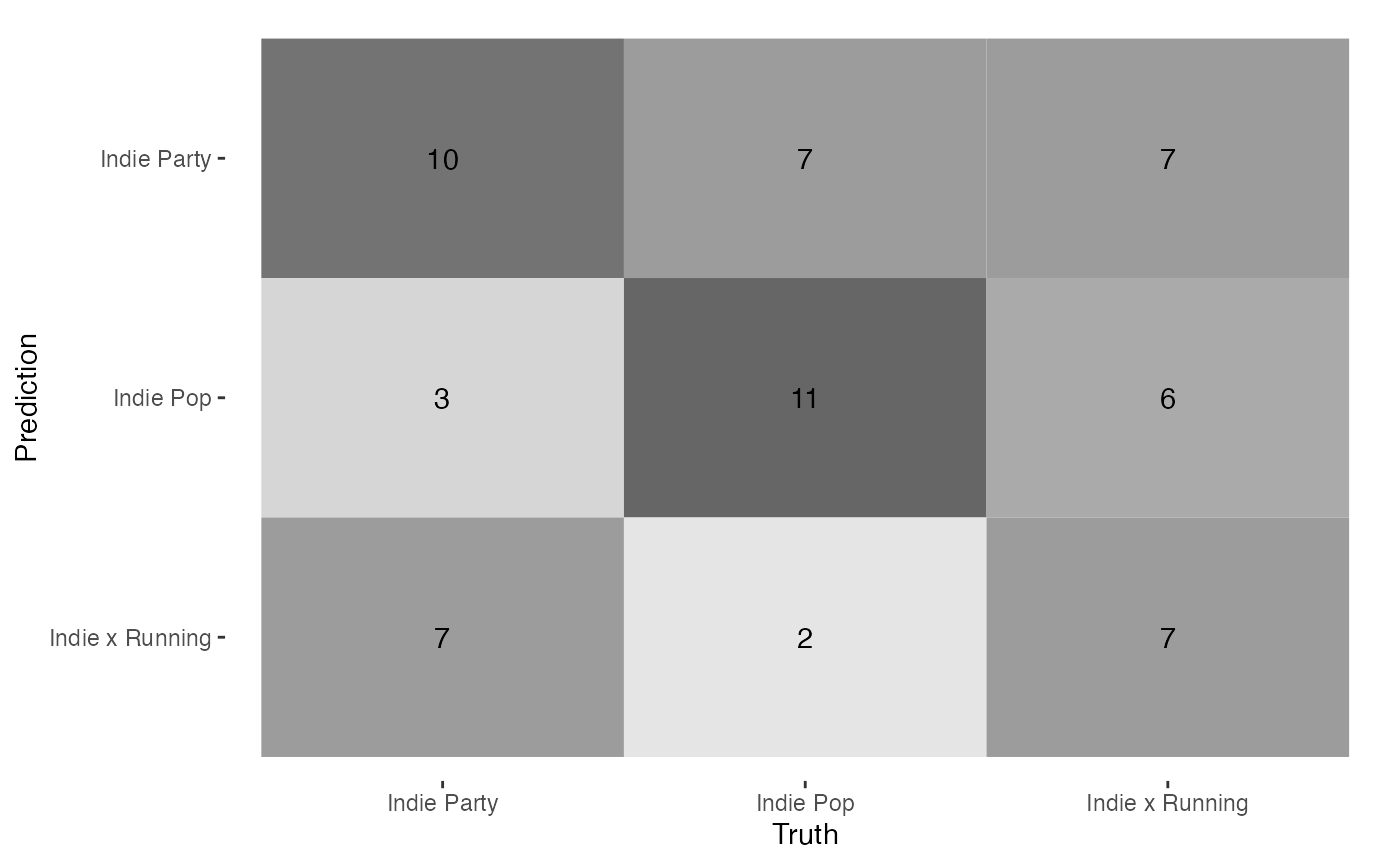
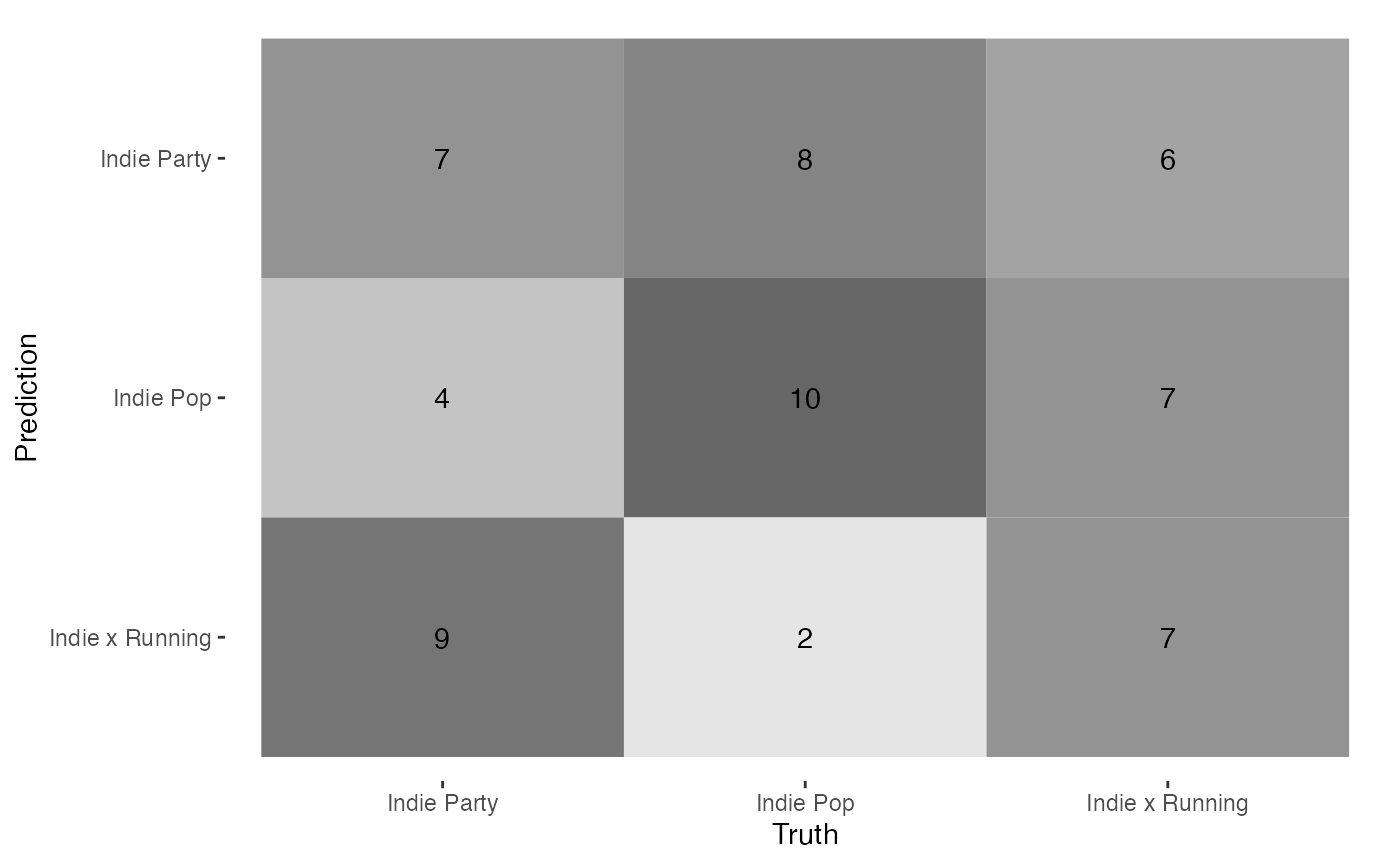
Updated dependencies and version number

diff --git a/docs/articles/compmus-w12.html b/docs/articles/compmus-w12.html
@@ -33,7 +33,7 @@
       </button>
       <span class="navbar-brand">
         <a class="navbar-link" href="../index.html">compmus</a>
-        <span class="version label label-default" data-toggle="tooltip" data-placement="bottom" title="">0.0.0.9008</span>
+        <span class="version label label-default" data-toggle="tooltip" data-placement="bottom" title="">0.0.0.9009</span>
       </span>
     </div>
 
@@ -126,7 +126,7 @@ further possibilities, look at the <code>cluster</code> package.</p>
 <span><span class="co">## <span style="color: #BB0000;">✖</span> <span style="color: #0000BB;">dplyr</span>::<span style="color: #00BB00;">lag()</span>      masks <span style="color: #0000BB;">stats</span>::lag()</span></span>
 <span><span class="co">## <span style="color: #BB0000;">✖</span> <span style="color: #0000BB;">yardstick</span>::<span style="color: #00BB00;">spec()</span> masks <span style="color: #0000BB;">readr</span>::spec()</span></span>
 <span><span class="co">## <span style="color: #BB0000;">✖</span> <span style="color: #0000BB;">recipes</span>::<span style="color: #00BB00;">step()</span>   masks <span style="color: #0000BB;">stats</span>::step()</span></span>
-<span><span class="co">## <span style="color: #0000BB;">•</span> Search for functions across packages at <span style="color: #00BB00;">https://www.tidymodels.org/find/</span></span></span></code></pre>
+<span><span class="co">## <span style="color: #0000BB;">•</span> Learn how to get started at <span style="color: #00BB00;">https://www.tidymodels.org/start/</span></span></span></code></pre>
 <div class="sourceCode" id="cb5"><pre class="downlit sourceCode r">
 <code class="sourceCode R"><span><span class="kw"><a href="https://rdrr.io/r/base/library.html" class="external-link">library</a></span><span class="op">(</span><span class="va">protoclust</span><span class="op">)</span></span>
 <span><span class="kw"><a href="https://rdrr.io/r/base/library.html" class="external-link">library</a></span><span class="op">(</span><span class="va"><a href="https://github.com/charlie86/spotifyr" class="external-link">spotifyr</a></span><span class="op">)</span></span></code></pre></div>
@@ -284,84 +284,84 @@ different results every time. Nonetheless, it can be a useful reality
 check on the stability of the clusters from hierarchical clustering.</p>
 <div class="sourceCode" id="cb13"><pre class="downlit sourceCode r">
 <code class="sourceCode R"><span><span class="fu"><a href="https://rdrr.io/r/stats/kmeans.html" class="external-link">kmeans</a></span><span class="op">(</span><span class="va">halloween_juice</span>, <span class="fl">4</span><span class="op">)</span></span></code></pre></div>
-<pre><code><span><span class="co">## K-means clustering with 4 clusters of sizes 2, 5, 6, 7</span></span>
+<pre><code><span><span class="co">## K-means clustering with 4 clusters of sizes 2, 6, 7, 5</span></span>
 <span><span class="co">## </span></span>
 <span><span class="co">## Cluster means:</span></span>
 <span><span class="co">##   danceability      energy   loudness speechiness acousticness instrumentalness</span></span>
 <span><span class="co">## 1   0.09605479  0.07213439  0.5262965 -0.48145689    0.1384264      1.105519968</span></span>
-<span><span class="co">## 2   0.64836983 -0.49710006  0.1245002  0.05224442    0.3870865     -0.367575835</span></span>
-<span><span class="co">## 3   0.83101946  1.15415030  0.6751792  0.92760310   -0.5974045     -0.059112255</span></span>
-<span><span class="co">## 4  -1.20286793 -0.65481004 -0.8180242 -0.69484670    0.1960202     -0.002641033</span></span>
+<span><span class="co">## 2   0.83101946  1.15415030  0.6751792  0.92760310   -0.5974045     -0.059112255</span></span>
+<span><span class="co">## 3  -1.20286793 -0.65481004 -0.8180242 -0.69484670    0.1960202     -0.002641033</span></span>
+<span><span class="co">## 4   0.64836983 -0.49710006  0.1245002  0.05224442    0.3870865     -0.367575835</span></span>
 <span><span class="co">##      liveness    valence       tempo track.duration_ms           C       C#|Db</span></span>
 <span><span class="co">## 1  0.23473711  0.1471131 -0.02038562       -0.12645737  0.44130883 -1.77309313</span></span>
-<span><span class="co">## 2  0.62657491  0.2517858 -0.57764542       -0.07050626 -0.34809410  0.50342957</span></span>
-<span><span class="co">## 3 -0.69972953  0.9450583  0.65014905       -0.32295764  0.10302548  0.02907237</span></span>
-<span><span class="co">## 4  0.08514692 -1.0319293 -0.13884228        0.36331312  0.03424285  0.12208631</span></span>
+<span><span class="co">## 2 -0.69972953  0.9450583  0.65014905       -0.32295764  0.10302548  0.02907237</span></span>
+<span><span class="co">## 3  0.08514692 -1.0319293 -0.13884228        0.36331312  0.03424285  0.12208631</span></span>
+<span><span class="co">## 4  0.62657491  0.2517858 -0.57764542       -0.07050626 -0.34809410  0.50342957</span></span>
 <span><span class="co">##            D      D#|Eb          E          F      F#|Gb           G</span></span>
 <span><span class="co">## 1  1.3525471 -0.5766835  1.7594651 -0.5345336 -0.4481507  0.17806751</span></span>
-<span><span class="co">## 2 -0.4354586 -0.4435755 -1.0830882 -0.6567164  0.4805615  0.47929858</span></span>
-<span><span class="co">## 3  0.1496190 -0.1653766 -0.1800450  0.3505671  0.4983636 -0.34465054</span></span>
-<span><span class="co">## 4 -0.2036450  0.6233577  0.4252545  0.3213209 -0.6423839 -0.09781781</span></span>
+<span><span class="co">## 2  0.1496190 -0.1653766 -0.1800450  0.3505671  0.4983636 -0.34465054</span></span>
+<span><span class="co">## 3 -0.2036450  0.6233577  0.4252545  0.3213209 -0.6423839 -0.09781781</span></span>
+<span><span class="co">## 4 -0.4354586 -0.4435755 -1.0830882 -0.6567164  0.4805615  0.47929858</span></span>
 <span><span class="co">##           G#|Ab          A       A#|Bb          B        c01        c02</span></span>
 <span><span class="co">## 1 -2.0105648218  1.2442431 -1.91137400  1.8355507  0.9626355  1.2067481</span></span>
-<span><span class="co">## 2  1.0426814710  0.3224897  0.78538950 -0.5982347 -0.6921753 -0.5563510</span></span>
-<span><span class="co">## 3 -0.1988474363 -0.2919318 -0.06307911  0.2556722  0.5016825  0.3531571</span></span>
-<span><span class="co">## 4  0.0001152723 -0.3356205  0.03918216 -0.3162802 -0.2106414 -0.2500977</span></span>
+<span><span class="co">## 2 -0.1988474363 -0.2919318 -0.06307911  0.2556722  0.5016825  0.3531571</span></span>
+<span><span class="co">## 3  0.0001152723 -0.3356205  0.03918216 -0.3162802 -0.2106414 -0.2500977</span></span>
+<span><span class="co">## 4  1.0426814710  0.3224897  0.78538950 -0.5982347 -0.6921753 -0.5563510</span></span>
 <span><span class="co">##          c03         c04        c05        c06          c07        c08</span></span>
 <span><span class="co">## 1  1.7439574  1.40708521  0.5926782  0.1993832 -0.998983423 -1.4265712</span></span>
-<span><span class="co">## 2 -0.5489469 -0.06467015  0.2282925  0.8266389 -0.164543931  0.3382651</span></span>
-<span><span class="co">## 3 -0.5880053  0.53833638 -0.5492119  0.2363025  0.472074517 -0.0128682</span></span>
-<span><span class="co">## 4  0.3978360 -0.81726256  0.1383504 -0.8499680 -0.001680086  0.1770037</span></span>
+<span><span class="co">## 2 -0.5880053  0.53833638 -0.5492119  0.2363025  0.472074517 -0.0128682</span></span>
+<span><span class="co">## 3  0.3978360 -0.81726256  0.1383504 -0.8499680 -0.001680086  0.1770037</span></span>
+<span><span class="co">## 4 -0.5489469 -0.06467015  0.2282925  0.8266389 -0.164543931  0.3382651</span></span>
 <span><span class="co">##          c09        c10        c11        c12</span></span>
 <span><span class="co">## 1 -0.9808208 -0.4151848  0.5479418 -0.2223407</span></span>
-<span><span class="co">## 2  0.8217280  0.4590651 -0.9741404 -0.2838794</span></span>
-<span><span class="co">## 3 -0.8325366  0.5484503 -0.4237820 -0.3920377</span></span>
-<span><span class="co">## 4  0.4068887 -0.6793797  0.9025014  0.6023293</span></span>
+<span><span class="co">## 2 -0.8325366  0.5484503 -0.4237820 -0.3920377</span></span>
+<span><span class="co">## 3  0.4068887 -0.6793797  0.9025014  0.6023293</span></span>
+<span><span class="co">## 4  0.8217280  0.4590651 -0.9741404 -0.2838794</span></span>
 <span><span class="co">## </span></span>
 <span><span class="co">## Clustering vector:</span></span>
 <span><span class="co">##                                                                            I Put a Spell on You </span></span>
-<span><span class="co">##                                                                                               3 </span></span>
+<span><span class="co">##                                                                                               2 </span></span>
 <span><span class="co">##                                                                                 Close Your Eyes </span></span>
-<span><span class="co">##                                                                                               4 </span></span>
-<span><span class="co">##                                                                                      Evil Woman </span></span>
 <span><span class="co">##                                                                                               3 </span></span>
+<span><span class="co">##                                                                                      Evil Woman </span></span>
+<span><span class="co">##                                                                                               2 </span></span>
 <span><span class="co">##                                                                                    Time to Kill </span></span>
-<span><span class="co">##                                                                                               2 </span></span>
+<span><span class="co">##                                                                                               4 </span></span>
 <span><span class="co">##                                                                                  Evil Bad Woman </span></span>
-<span><span class="co">##                                                                                               2 </span></span>
+<span><span class="co">##                                                                                               4 </span></span>
 <span><span class="co">##                                                                            The Princess of Evil </span></span>
-<span><span class="co">##                                                                                               4 </span></span>
+<span><span class="co">##                                                                                               3 </span></span>
 <span><span class="co">##                                                                                 'Round Midnight </span></span>
-<span><span class="co">##                                                                                               4 </span></span>
+<span><span class="co">##                                                                                               3 </span></span>
 <span><span class="co">##                                                             Tana's Theme - From "Touch of Evil" </span></span>
 <span><span class="co">##                                                                                               1 </span></span>
 <span><span class="co">##                                                                                      Evil Blues </span></span>
-<span><span class="co">##                                                                                               2 </span></span>
-<span><span class="co">##                                                                             Someone Is Watching </span></span>
 <span><span class="co">##                                                                                               4 </span></span>
+<span><span class="co">##                                                                             Someone Is Watching </span></span>
+<span><span class="co">##                                                                                               3 </span></span>
 <span><span class="co">## Violin Sonata in G Minor "Devil's Trill": II. Allegro energico - Grave - Arr. by Fritz Kreisler </span></span>
 <span><span class="co">##                                                                                               1 </span></span>
 <span><span class="co">##                                                                                    Cannibal Pot </span></span>
-<span><span class="co">##                                                                                               3 </span></span>
+<span><span class="co">##                                                                                               2 </span></span>
 <span><span class="co">##                                                                                       Red Devil </span></span>
-<span><span class="co">##                                                                                               3 </span></span>
+<span><span class="co">##                                                                                               2 </span></span>
 <span><span class="co">##                                                                       You're Not Living in Vain </span></span>
-<span><span class="co">##                                                                                               4 </span></span>
+<span><span class="co">##                                                                                               3 </span></span>
 <span><span class="co">##                                                                                    Little Demon </span></span>
-<span><span class="co">##                                                                                               3 </span></span>
+<span><span class="co">##                                                                                               2 </span></span>
 <span><span class="co">##                                                  Devil at 4 O'Clock - From "Devil at 4 O'Clock" </span></span>
-<span><span class="co">##                                                                                               4 </span></span>
-<span><span class="co">##                                                                                  Old Devil Moon </span></span>
 <span><span class="co">##                                                                                               3 </span></span>
+<span><span class="co">##                                                                                  Old Devil Moon </span></span>
+<span><span class="co">##                                                                                               2 </span></span>
 <span><span class="co">##                                                                             Up Jumped the Devil </span></span>
-<span><span class="co">##                                                                                               2 </span></span>
-<span><span class="co">##                                                        Beetween the Devil and the Deep Blue Sea </span></span>
-<span><span class="co">##                                                                                               2 </span></span>
-<span><span class="co">##                                                                                     Devil Woman </span></span>
 <span><span class="co">##                                                                                               4 </span></span>
+<span><span class="co">##                                                        Beetween the Devil and the Deep Blue Sea </span></span>
+<span><span class="co">##                                                                                               4 </span></span>
+<span><span class="co">##                                                                                     Devil Woman </span></span>
+<span><span class="co">##                                                                                               3 </span></span>
 <span><span class="co">## </span></span>
 <span><span class="co">## Within cluster sum of squares by cluster:</span></span>
-<span><span class="co">## [1]  29.47158 104.86406 127.08694 139.55752</span></span>
+<span><span class="co">## [1]  29.47158 127.08694 139.55752 104.86406</span></span>
 <span><span class="co">##  (between_SS / total_SS =  37.9 %)</span></span>
 <span><span class="co">## </span></span>
 <span><span class="co">## Available components:</span></span>

diff --git a/docs/articles/compmus-w11.html b/docs/articles/compmus-w11.html
@@ -33,7 +33,7 @@
       </button>
       <span class="navbar-brand">
         <a class="navbar-link" href="../index.html">compmus</a>
-        <span class="version label label-default" data-toggle="tooltip" data-placement="bottom" title="">0.0.0.9008</span>
+        <span class="version label label-default" data-toggle="tooltip" data-placement="bottom" title="">0.0.0.9009</span>
       </span>
     </div>
 
@@ -127,7 +127,7 @@ consistent manner.</p>
 <span><span class="co">## <span style="color: #BB0000;">✖</span> <span style="color: #0000BB;">dplyr</span>::<span style="color: #00BB00;">lag()</span>      masks <span style="color: #0000BB;">stats</span>::lag()</span></span>
 <span><span class="co">## <span style="color: #BB0000;">✖</span> <span style="color: #0000BB;">yardstick</span>::<span style="color: #00BB00;">spec()</span> masks <span style="color: #0000BB;">readr</span>::spec()</span></span>
 <span><span class="co">## <span style="color: #BB0000;">✖</span> <span style="color: #0000BB;">recipes</span>::<span style="color: #00BB00;">step()</span>   masks <span style="color: #0000BB;">stats</span>::step()</span></span>
-<span><span class="co">## <span style="color: #0000BB;">•</span> Use <span style="color: #00BB00;">tidymodels_prefer()</span> to resolve common conflicts.</span></span></code></pre>
+<span><span class="co">## <span style="color: #0000BB;">•</span> Use suppressPackageStartupMessages() to eliminate package startup messages</span></span></code></pre>
 <div class="sourceCode" id="cb5"><pre class="downlit sourceCode r">
 <code class="sourceCode R"><span><span class="kw"><a href="https://rdrr.io/r/base/library.html" class="external-link">library</a></span><span class="op">(</span><span class="va"><a href="https://github.com/charlie86/spotifyr" class="external-link">spotifyr</a></span><span class="op">)</span></span></code></pre></div>
 <pre><code><span><span class="co">## </span></span>
@@ -407,9 +407,9 @@ baseline and come back to it later.</p>
 <span>    <span class="fu">conf_mat</span><span class="op">(</span>truth <span class="op">=</span> <span class="va">playlist</span>, estimate <span class="op">=</span> <span class="va">.pred_class</span><span class="op">)</span></span></code></pre></div>
 <pre><code><span><span class="co">##                  Truth</span></span>
 <span><span class="co">## Prediction        Indie Party Indie Pop Indie x Running</span></span>
-<span><span class="co">##   Indie Party              10         7               7</span></span>
-<span><span class="co">##   Indie Pop                 3        11               6</span></span>
-<span><span class="co">##   Indie x Running           7         2               7</span></span></code></pre>
+<span><span class="co">##   Indie Party               7         8               6</span></span>
+<span><span class="co">##   Indie Pop                 4        10               7</span></span>
+<span><span class="co">##   Indie x Running           9         2               7</span></span></code></pre>
 <p>These matrices <code>autoplot</code> in two forms.</p>
 <div class="sourceCode" id="cb25"><pre class="downlit sourceCode r">
 <code class="sourceCode R"><span><span class="va">indie_cv</span> <span class="op"><a href="https://magrittr.tidyverse.org/reference/pipe.html" class="external-link">%&gt;%</a></span> </span>
@@ -432,9 +432,9 @@ J-measure.</p>
 <pre><code><span><span class="co">## <span style="color: #949494;"># A tibble: 3 × 3</span></span></span>
 <span><span class="co">##   .metric  .estimator .estimate</span></span>
 <span><span class="co">##   <span style="color: #949494; font-style: italic;">&lt;chr&gt;</span>    <span style="color: #949494; font-style: italic;">&lt;chr&gt;</span>          <span style="color: #949494; font-style: italic;">&lt;dbl&gt;</span></span></span>
-<span><span class="co">## <span style="color: #BCBCBC;">1</span> accuracy multiclass     0.467</span></span>
-<span><span class="co">## <span style="color: #BCBCBC;">2</span> kap      multiclass     0.200</span></span>
-<span><span class="co">## <span style="color: #BCBCBC;">3</span> j_index  macro          0.2</span></span></code></pre>
+<span><span class="co">## <span style="color: #BCBCBC;">1</span> accuracy multiclass       0.4</span></span>
+<span><span class="co">## <span style="color: #BCBCBC;">2</span> kap      multiclass       0.1</span></span>
+<span><span class="co">## <span style="color: #BCBCBC;">3</span> j_index  macro            0.1</span></span></code></pre>
 </div>
 <div class="section level4">
 <h4 id="logistic-and-multinomial-regression">Logistic and Multinomial Regression<a class="anchor" aria-label="anchor" href="#logistic-and-multinomial-regression"></a>
@@ -464,9 +464,9 @@ You can adjust the penalty parameter if you are feeling adventurous.</p>
 <pre><code><span><span class="co">## <span style="color: #949494;"># A tibble: 3 × 3</span></span></span>
 <span><span class="co">##   .metric  .estimator .estimate</span></span>
 <span><span class="co">##   <span style="color: #949494; font-style: italic;">&lt;chr&gt;</span>    <span style="color: #949494; font-style: italic;">&lt;chr&gt;</span>          <span style="color: #949494; font-style: italic;">&lt;dbl&gt;</span></span></span>
-<span><span class="co">## <span style="color: #BCBCBC;">1</span> accuracy multiclass     0.483</span></span>
-<span><span class="co">## <span style="color: #BCBCBC;">2</span> kap      multiclass     0.225</span></span>
-<span><span class="co">## <span style="color: #BCBCBC;">3</span> j_index  macro          0.225</span></span></code></pre>
+<span><span class="co">## <span style="color: #BCBCBC;">1</span> accuracy multiclass     0.467</span></span>
+<span><span class="co">## <span style="color: #BCBCBC;">2</span> kap      multiclass     0.2  </span></span>
+<span><span class="co">## <span style="color: #BCBCBC;">3</span> j_index  macro          0.200</span></span></code></pre>
 <p>We can look at the most important features in the model by using the
 <code>coef</code> method.</p>
 <div class="sourceCode" id="cb33"><pre class="downlit sourceCode r">
@@ -2808,9 +2808,9 @@ here.</p>
 <pre><code><span><span class="co">## <span style="color: #949494;"># A tibble: 3 × 3</span></span></span>
 <span><span class="co">##   .metric  .estimator .estimate</span></span>
 <span><span class="co">##   <span style="color: #949494; font-style: italic;">&lt;chr&gt;</span>    <span style="color: #949494; font-style: italic;">&lt;chr&gt;</span>          <span style="color: #949494; font-style: italic;">&lt;dbl&gt;</span></span></span>
-<span><span class="co">## <span style="color: #BCBCBC;">1</span> accuracy multiclass     0.433</span></span>
-<span><span class="co">## <span style="color: #BCBCBC;">2</span> kap      multiclass     0.15 </span></span>
-<span><span class="co">## <span style="color: #BCBCBC;">3</span> j_index  macro          0.15</span></span></code></pre>
+<span><span class="co">## <span style="color: #BCBCBC;">1</span> accuracy multiclass      0.5 </span></span>
+<span><span class="co">## <span style="color: #BCBCBC;">2</span> kap      multiclass      0.25</span></span>
+<span><span class="co">## <span style="color: #BCBCBC;">3</span> j_index  macro           0.25</span></span></code></pre>
 <p>We can look at the whole tree with the <code>summary</code> command.
 Be careful not to read too much into the actual numerical values,
 however: remember that the features were standardised before we started
@@ -2829,7 +2829,7 @@ probably aren’t.</p>
 <span><span class="co">##  2, sample = 0))</span></span>
 <span><span class="co">## </span></span>
 <span><span class="co">## </span></span>
-<span><span class="co">## C5.0 [Release 2.07 GPL Edition]      Tue Feb 21 23:46:29 2023</span></span>
+<span><span class="co">## C5.0 [Release 2.07 GPL Edition]      Wed Feb 22 00:26:02 2023</span></span>
 <span><span class="co">## -------------------------------</span></span>
 <span><span class="co">## </span></span>
 <span><span class="co">## Class specified by attribute `outcome'</span></span>
@@ -2909,9 +2909,9 @@ probably aren’t.</p>
 <pre><code><span><span class="co">## <span style="color: #949494;"># A tibble: 3 × 3</span></span></span>
 <span><span class="co">##   .metric  .estimator .estimate</span></span>
 <span><span class="co">##   <span style="color: #949494; font-style: italic;">&lt;chr&gt;</span>    <span style="color: #949494; font-style: italic;">&lt;chr&gt;</span>          <span style="color: #949494; font-style: italic;">&lt;dbl&gt;</span></span></span>
-<span><span class="co">## <span style="color: #BCBCBC;">1</span> accuracy multiclass     0.433</span></span>
-<span><span class="co">## <span style="color: #BCBCBC;">2</span> kap      multiclass     0.15 </span></span>
-<span><span class="co">## <span style="color: #BCBCBC;">3</span> j_index  macro          0.15</span></span></code></pre>
+<span><span class="co">## <span style="color: #BCBCBC;">1</span> accuracy multiclass     0.483</span></span>
+<span><span class="co">## <span style="color: #BCBCBC;">2</span> kap      multiclass     0.225</span></span>
+<span><span class="co">## <span style="color: #BCBCBC;">3</span> j_index  macro          0.225</span></span></code></pre>
 <p>Random forests give us the best-quality ranking of feature
 importance, and we can plot it with
 <code><a href="https://rdrr.io/pkg/randomForest/man/varImpPlot.html" class="external-link">randomForest::varImpPlot</a></code>. Again, it is clear that timbre,
@@ -2944,9 +2944,9 @@ the top features. We see much better results.</p>
 <pre><code><span><span class="co">## <span style="color: #949494;"># A tibble: 3 × 3</span></span></span>
 <span><span class="co">##   .metric  .estimator .estimate</span></span>
 <span><span class="co">##   <span style="color: #949494; font-style: italic;">&lt;chr&gt;</span>    <span style="color: #949494; font-style: italic;">&lt;chr&gt;</span>          <span style="color: #949494; font-style: italic;">&lt;dbl&gt;</span></span></span>
-<span><span class="co">## <span style="color: #BCBCBC;">1</span> accuracy multiclass  3.33<span style="color: #949494;">e</span><span style="color: #BB0000;">- 1</span></span></span>
-<span><span class="co">## <span style="color: #BCBCBC;">2</span> kap      multiclass  0   <span style="color: #949494;"> </span>   </span></span>
-<span><span class="co">## <span style="color: #BCBCBC;">3</span> j_index  macro       3.82<span style="color: #949494;">e</span><span style="color: #BB0000;">-17</span></span></span></code></pre>
+<span><span class="co">## <span style="color: #BCBCBC;">1</span> accuracy multiclass    0.35  </span></span>
+<span><span class="co">## <span style="color: #BCBCBC;">2</span> kap      multiclass    0.025<span style="text-decoration: underline;">0</span></span></span>
+<span><span class="co">## <span style="color: #BCBCBC;">3</span> j_index  macro         0.025<span style="text-decoration: underline;">0</span></span></span></code></pre>
 <div class="sourceCode" id="cb52"><pre class="downlit sourceCode r">
 <code class="sourceCode R"><span><span class="va">indie_cv</span> <span class="op"><a href="https://magrittr.tidyverse.org/reference/pipe.html" class="external-link">%&gt;%</a></span> </span>
 <span>    <span class="fu"><a href="https://dplyr.tidyverse.org/reference/mutate.html" class="external-link">mutate</a></span><span class="op">(</span>pred <span class="op">=</span> <span class="fu"><a href="https://purrr.tidyverse.org/reference/map.html" class="external-link">map</a></span><span class="op">(</span><span class="va">splits</span>, <span class="va">predict_knn_reduced</span><span class="op">)</span><span class="op">)</span> <span class="op"><a href="https://magrittr.tidyverse.org/reference/pipe.html" class="external-link">%&gt;%</a></span> <span class="fu"><a href="https://tidyr.tidyverse.org/reference/unnest.html" class="external-link">unnest</a></span><span class="op">(</span><span class="va">pred</span><span class="op">)</span> <span class="op"><a href="https://magrittr.tidyverse.org/reference/pipe.html" class="external-link">%&gt;%</a></span> </span>

diff --git a/docs/reference/add_audio_analysis.html b/docs/reference/add_audio_analysis.html
@@ -18,7 +18,7 @@ frame."><!-- mathjax --><script src="https://cdnjs.cloudflare.com/ajax/libs/math
       </button>
       <span class="navbar-brand">
         <a class="navbar-link" href="../index.html">compmus</a>
-        <span class="version label label-default" data-toggle="tooltip" data-placement="bottom" title="">0.0.0.9008</span>
+        <span class="version label label-default" data-toggle="tooltip" data-placement="bottom" title="">0.0.0.9009</span>
       </span>
     </div>
 
@@ -101,7 +101,7 @@ frame.</p>
 <span class="r-in"><span>  <span class="fu"><a href="https://dplyr.tidyverse.org/reference/slice.html" class="external-link">slice</a></span><span class="op">(</span><span class="fl">1</span><span class="op">:</span><span class="fl">5</span><span class="op">)</span> <span class="op"><a href="https://magrittr.tidyverse.org/reference/pipe.html" class="external-link">%&gt;%</a></span></span></span>
 <span class="r-in"><span>  <span class="fu">add_audio_analysis</span><span class="op">(</span><span class="op">)</span></span></span>
 <span class="r-msg co"><span class="r-pr">#&gt;</span> Request failed [404]. Retrying in 1 seconds...</span>
-<span class="r-msg co"><span class="r-pr">#&gt;</span> Request failed [404]. Retrying in 2.8 seconds...</span>
+<span class="r-msg co"><span class="r-pr">#&gt;</span> Request failed [404]. Retrying in 1.4 seconds...</span>
 <span class="r-err co"><span class="r-pr">#&gt;</span> <span class="error">Error in map(.x, .f, ...):</span> <span style="color: #00BBBB;">ℹ</span> In index: 1.</span>
 <span class="r-err co"><span class="r-pr">#&gt;</span> <span style="font-weight: bold;">Caused by error in `query_playlist()`:</span></span>
 <span class="r-err co"><span class="r-pr">#&gt;</span> <span style="color: #BBBB00;">!</span> Not Found (HTTP 404).</span>

diff --git a/docs/index.html b/docs/index.html
@@ -34,7 +34,7 @@
       </button>
       <span class="navbar-brand">
         <a class="navbar-link" href="index.html">compmus</a>
-        <span class="version label label-default" data-toggle="tooltip" data-placement="bottom" title="">0.0.0.9008</span>
+        <span class="version label label-default" data-toggle="tooltip" data-placement="bottom" title="">0.0.0.9009</span>
       </span>
     </div>
 
@@ -84,7 +84,7 @@
 <h2 id="overview">Overview<a class="anchor" aria-label="anchor" href="#overview"></a>
 </h2>
 <p>This package contains support functions for Computational Musicology at the University of Amsterdam. For details, see <a href="./reference/">the reference</a> or <a href="./articles/">the vignettes</a>.</p>
-<p>For further examples of how these functions can be used in practice, see <a href="http://jaburgoyne.github.io/compmus2021/" class="external-link">the course repository</a> for this year.</p>
+<p>For further examples of how these functions can be used in practice, see <a href="http://jaburgoyne.github.io/compmus2023/" class="external-link">the course repository</a> for this year.</p>
 </div>
   </div>
 

diff --git a/docs/authors.html b/docs/authors.html
@@ -17,7 +17,7 @@
       </button>
       <span class="navbar-brand">
         <a class="navbar-link" href="index.html">compmus</a>
-        <span class="version label label-default" data-toggle="tooltip" data-placement="bottom" title="">0.0.0.9008</span>
+        <span class="version label label-default" data-toggle="tooltip" data-placement="bottom" title="">0.0.0.9009</span>
       </span>
     </div>
 
@@ -76,13 +76,13 @@
 
     <p>Burgoyne JA (2023).
 <em>compmus: Support Functions for Computational Musicology</em>.
-R package version 0.0.0.9008. 
+R package version 0.0.0.9009. 
 </p>
     <pre>@Manual{,
   title = {compmus: Support Functions for Computational Musicology},
   author = {John Ashley Burgoyne},
   year = {2023},
-  note = {R package version 0.0.0.9008},
+  note = {R package version 0.0.0.9009},
 }</pre>
 
   </div>

diff --git a/docs/LICENSE-text.html b/docs/LICENSE-text.html
@@ -17,7 +17,7 @@
       </button>
       <span class="navbar-brand">
         <a class="navbar-link" href="index.html">compmus</a>
-        <span class="version label label-default" data-toggle="tooltip" data-placement="bottom" title="">0.0.0.9008</span>
+        <span class="version label label-default" data-toggle="tooltip" data-placement="bottom" title="">0.0.0.9009</span>
       </span>
     </div>
 
@@ -59,7 +59,7 @@
       <h1>License</h1>
     </div>
 
-<pre>YEAR: 2019
+<pre>YEAR: 2023
 COPYRIGHT HOLDER: John Ashley Burgoyne
 ORGANIZATION: University of Amsterdam
 </pre>

diff --git a/docs/reference/compmus_align.html b/docs/reference/compmus_align.html
@@ -18,7 +18,7 @@ corresponding to each outer segment."><!-- mathjax --><script src="https://cdnjs
       </button>
       <span class="navbar-brand">
         <a class="navbar-link" href="../index.html">compmus</a>
-        <span class="version label label-default" data-toggle="tooltip" data-placement="bottom" title="">0.0.0.9008</span>
+        <span class="version label label-default" data-toggle="tooltip" data-placement="bottom" title="">0.0.0.9009</span>
       </span>
     </div>
 

diff --git a/docs/reference/compmus_gather_chroma.html b/docs/reference/compmus_gather_chroma.html
@@ -19,7 +19,7 @@ get_tidy_audio_analysis."><!-- mathjax --><script src="https://cdnjs.cloudflare.
       </button>
       <span class="navbar-brand">
         <a class="navbar-link" href="../index.html">compmus</a>
-        <span class="version label label-default" data-toggle="tooltip" data-placement="bottom" title="">0.0.0.9008</span>
+        <span class="version label label-default" data-toggle="tooltip" data-placement="bottom" title="">0.0.0.9009</span>
       </span>
     </div>
 

diff --git a/docs/reference/compmus_long_distance.html b/docs/reference/compmus_long_distance.html
@@ -21,7 +21,7 @@ convenience, not speed."><!-- mathjax --><script src="https://cdnjs.cloudflare.c
       </button>
       <span class="navbar-brand">
         <a class="navbar-link" href="../index.html">compmus</a>
-        <span class="version label label-default" data-toggle="tooltip" data-placement="bottom" title="">0.0.0.9008</span>
+        <span class="version label label-default" data-toggle="tooltip" data-placement="bottom" title="">0.0.0.9009</span>
       </span>
     </div>
 

diff --git a/docs/reference/compmus_match_pitch_template.html b/docs/reference/compmus_match_pitch_template.html
@@ -18,7 +18,7 @@ likely key or chord profiles."><!-- mathjax --><script src="https://cdnjs.cloudf
       </button>
       <span class="navbar-brand">
         <a class="navbar-link" href="../index.html">compmus</a>
-        <span class="version label label-default" data-toggle="tooltip" data-placement="bottom" title="">0.0.0.9008</span>
+        <span class="version label label-default" data-toggle="tooltip" data-placement="bottom" title="">0.0.0.9009</span>
       </span>
     </div>
 

diff --git a/docs/reference/compmus_normalise.html b/docs/reference/compmus_normalise.html
@@ -19,7 +19,7 @@ common alternative names."><!-- mathjax --><script src="https://cdnjs.cloudflare
       </button>
       <span class="navbar-brand">
         <a class="navbar-link" href="../index.html">compmus</a>
-        <span class="version label label-default" data-toggle="tooltip" data-placement="bottom" title="">0.0.0.9008</span>
+        <span class="version label label-default" data-toggle="tooltip" data-placement="bottom" title="">0.0.0.9009</span>
       </span>
     </div>
 

diff --git a/docs/reference/get_tidy_audio_analysis.html b/docs/reference/get_tidy_audio_analysis.html
@@ -18,7 +18,7 @@ lists of lists."><!-- mathjax --><script src="https://cdnjs.cloudflare.com/ajax/
       </button>
       <span class="navbar-brand">
         <a class="navbar-link" href="../index.html">compmus</a>
-        <span class="version label label-default" data-toggle="tooltip" data-placement="bottom" title="">0.0.0.9008</span>
+        <span class="version label label-default" data-toggle="tooltip" data-placement="bottom" title="">0.0.0.9009</span>
       </span>
     </div>
 
